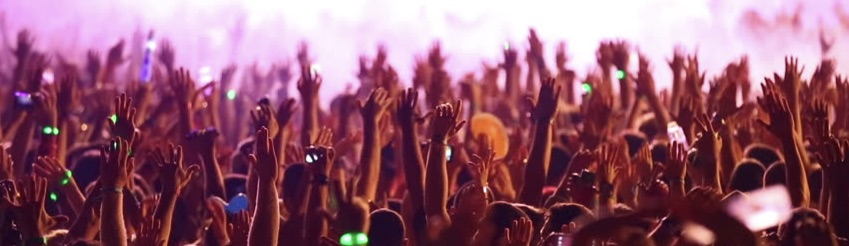
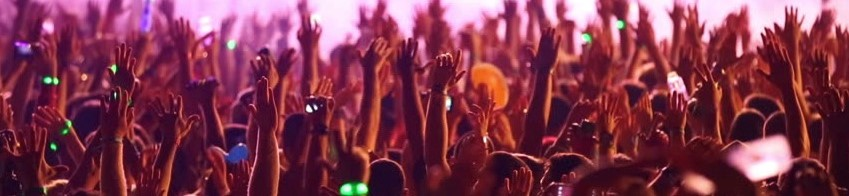
details component deleted; styling added; homepage done

diff --git a/src/app/search-criteria/search-criteria.component.css b/src/app/search-criteria/search-criteria.component.css
@@ -2,43 +2,50 @@
   display: flex;
   justify-content: space-between;
   align-items: center;
-  background-image: url("../../assets/IVJkatvXRj+RtMCmYVZfbA_thumb_2724.jpg");
+  background-image: linear-gradient(rgba(0, 0, 0, 0.356), rgba(0, 0, 0, .356)), url("../../assets/IVJkatvXRj+RtMCmYVZfbA_thumb_2724.jpg");
   background-repeat: repeat;
   background-size: cover;
   height: 137px;
   width: 100%;
+  border-bottom: black 5px solid;
 }
+
 nav {
   display: flex;
   flex-direction: column;
   justify-content: space-evenly;
   align-items: flex-end;
   background: rgba(32, 30, 30, 0.801);
-  height: 100%;
+  height: 101%;
   width: 15%;
   font-weight: bold;
   padding-right: 15px;
   font-size: 20px;
 }
+
 #title {
   font-size: 50px;
   margin: 0;
   background: rgba(32, 30, 30, 0.801);
-  padding: 37px 0;
+  padding: 33px 0;
   text-align: center;
   width: 325px;
   color: white;
+  font-family: 'Permanent Marker', cursive;
 }
+
 a {
   color: white;
   text-decoration: none;
   padding: 10px;
 }
+
 .active {
   background: rgba(145, 141, 141, 0.534);
   padding: 10px;
   border-radius: 5px;
 }
+
 #searchBar {
   display: flex;
   justify-content: space-evenly;
@@ -50,19 +57,22 @@ a {
   left: 50%;
   top: 20px;
   transform: translateX(-50%);
-  background: white;
+  background: rgba(255, 255, 255, 0.596);
   padding: 10px;
 }
+
 form {
   display: flex;
   flex-direction: column;
   justify-content: space-between;
   align-items: center;
 }
+
 input {
   margin: 3px;
   font-family: "Livvic", sans-serif;
 }
+
 .textInput {
   padding: 2px;
 }
@@ -73,6 +83,7 @@ input {
   border-radius: 5px;
   font-size: 15px;
 }
+
 #routerOutlet {
   width: 100%;
   position: relative;

diff --git a/src/app/home/home.component.css b/src/app/home/home.component.css
@@ -1,8 +1,70 @@
 h1 {
-  /* margin: 50px 0 0 10px; */
   font-size: 45px;
+  margin: 0;
 }
 
 main {
-  margin: 30px;
+  margin: 0 30px;
+  display: flex;
+  flex-direction: column;
+}
+
+.welcome {
+  background: rgba(255, 255, 255, 0.596);
+  box-shadow: 0px 0px 10px 0px rgb(117, 113, 113);
+  margin: 10px 0;
+  padding: 20px;
+  border-radius: 10px;
+}
+
+.welcome {
+  display: flex;
+  flex-direction: column;
+  padding: 30px;
+}
+
+.adds {
+  display: flex;
+  justify-content: space-between;
+  margin: 5px 0;
+}
+
+div {
+  box-shadow: 0px 0px 10px 0px rgb(117, 113, 113);
+  padding: 20px;
+  border-radius: 10px;
+  background: rgba(255, 255, 255, 0.596);
+  display: flex;
+}
+
+.ticket {
+  margin-right: 10px;
+  flex-direction: column;
+  align-items: center;
+}
+
+.GC {
+  margin-left: 10px;
+  flex-direction: row;
+  align-items: center;
+}
+
+#ticketmaster {
+  margin-top: 20px;
+  width: 70%;
+}
+
+#grandcircus {
+  margin-left: 30px;
+}
+
+.welcome h1,
+h3,
+h2 {
+  margin: 0;
+}
+
+.welcome h1 {
+  font-family: 'Permanent Marker', cursive;
+  margin-bottom: 5px;
 }

diff --git a/src/app/home/home.component.html b/src/app/home/home.component.html
@@ -1,3 +1,17 @@
 <main>
-  <h1>Start your search now!</h1>
+  <section class="welcome">
+    <h1>Welcome to Event Guru!</h1>
+    <h3>Seach upcoming events for your favorite arists, comedies, shows, and sporting events!</h3>
+    <h2>Start your search now!</h2>
+  </section>
+  <section class="adds">
+    <div class="ticket">
+      <h1>Powered by:</h1>
+      <img id="ticketmaster" src="../../assets/ticketmaster-5-logo.png">
+    </div>
+    <div class="GC">
+      <h1>And brought to you by the students of:</h1>
+      <img id="grandcircus" src="../../assets/grand_circus.png">
+    </div>
+  </section>
 </main>

diff --git a/src/app/app.module.ts b/src/app/app.module.ts
@@ -8,7 +8,6 @@ import { BucketlistPageComponent } from "./bucketlist-page/bucketlist-page.compo
 import { EventService } from "./event.service";
 import { HttpClientModule } from "@angular/common/http";
 import { FormsModule } from "@angular/forms";
-import { DetailsComponent } from "./details/details.component";
 import { HomeComponent } from "./home/home.component";
 
 const appRoutes: Routes = [
@@ -24,7 +23,6 @@ const appRoutes: Routes = [
     SearchCriteriaComponent,
     EventListComponent,
     BucketlistPageComponent,
-    DetailsComponent,
     HomeComponent
   ],
   imports: [

diff --git a/src/app/search-criteria/event-list/event-list.component.css b/src/app/search-criteria/event-list/event-list.component.css
@@ -9,7 +9,7 @@ section {
 .event {
   width: 25%;
   margin: 20px;
-  background: white;
+  background: rgba(255, 255, 255, 0.596);
   padding: 20px;
   border-radius: 5px;
   box-shadow: 0px 0px 10px 0px rgb(117, 113, 113);
@@ -35,7 +35,8 @@ button {
 }
 
 .seeMore {
-  color: rgb(172, 164, 164);
+  color: rgb(107, 97, 97);
+  text-align: right;
 }
 
 .seeMore:hover {
@@ -44,9 +45,10 @@ button {
 }
 
 .details {
-  background: rgba(211, 211, 211, 0.548);
+  /* background: rgba(218, 208, 208, 0.822); */
   padding: 10px;
   margin-bottom: 10px;
+  font-weight: bold;
 }
 
 /* .show {

diff --git a/src/index.html b/src/index.html
@@ -1,5 +1,6 @@
 <!doctype html>
 <html lang="en">
+
 <head>
   <meta charset="utf-8">
   <title>EventsApi</title>
@@ -8,8 +9,11 @@
   <meta name="viewport" content="width=device-width, initial-scale=1">
   <link rel="icon" type="image/x-icon" href="favicon.ico">
   <link href="https://fonts.googleapis.com/css?family=Livvic&display=swap" rel="stylesheet">
+  <link href="https://fonts.googleapis.com/css?family=Permanent+Marker&display=swap" rel="stylesheet">
 </head>
+
 <body>
   <app-root></app-root>
 </body>
+
 </html>

diff --git a/src/app/search-criteria/search-criteria.component.ts b/src/app/search-criteria/search-criteria.component.ts
@@ -1,5 +1,4 @@
 import { Component, OnInit } from "@angular/core";
-import { EventService } from "../event.service";
 import { NgForm } from "@angular/forms";
 import { Router } from "@angular/router";
 
@@ -9,7 +8,7 @@ import { Router } from "@angular/router";
   styleUrls: ["./search-criteria.component.css"]
 })
 export class SearchCriteriaComponent implements OnInit {
-  constructor(private eventService: EventService, private router: Router) {}
+  constructor(private router: Router) {}
 
   ngOnInit() {}
 

diff --git a/src/app/bucketlist-page/bucketlist-page.component.css b/src/app/bucketlist-page/bucketlist-page.component.css
@@ -9,7 +9,7 @@
   left: 50%;
   transform: translateX(-50%);
   box-shadow: 0px 0px 10px 0px rgb(117, 113, 113);
-  background: white;
+  background: rgba(255, 255, 255, 0.596);
   margin: 10px 0;
 }
 

diff --git a/src/styles.css b/src/styles.css
@@ -20,6 +20,6 @@ button {
 }
 
 button:hover {
-  background: lightgrey;
+  background: rgba(172, 89, 161, 0.774);
   cursor: pointer;
 }
